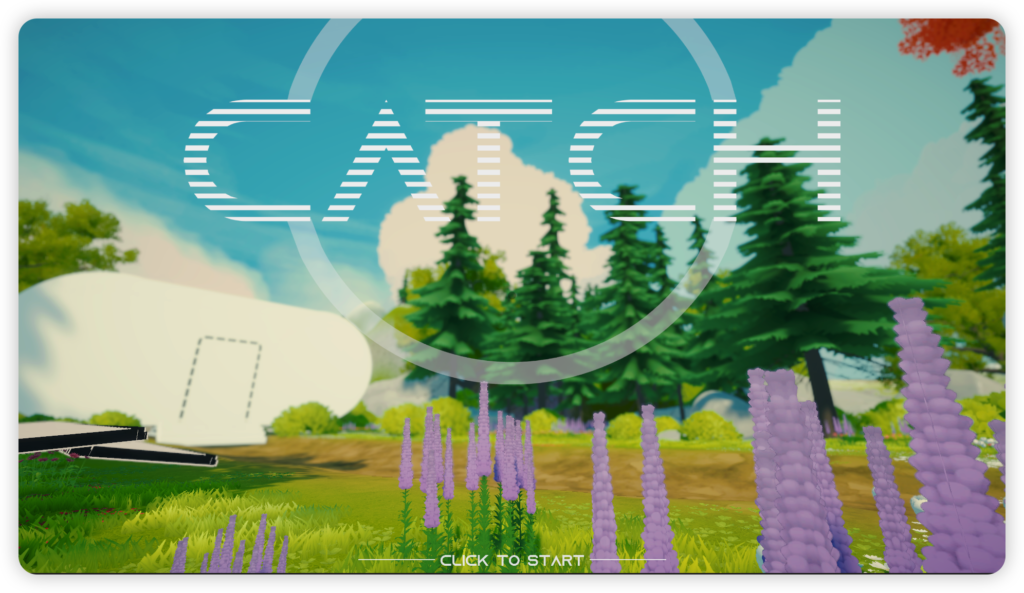
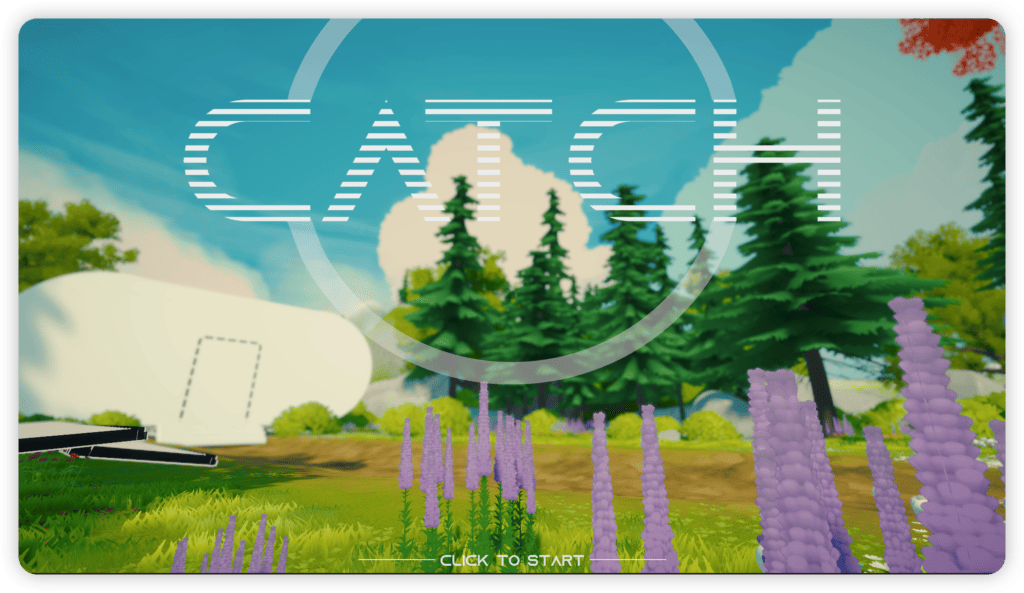
chore: site maintenance — meta fix, lang cleanup, image compression, robots polish
- Remove unescaped manual meta description tag from default layout (was causing broken
  double description on pages with quotes in description, e.g. Zh Project Catch)
- Add explicit lang: en to 3 English collection files (finite-space, project-catch, mortise-mirage)
- Compress 6 largest PNG images (pngquant q=70-85): total 5.5MB -> 1.4MB (-75%)
- Add clarifying comment to robots.txt about intentional Disallow
- Install dev dependencies: ImageMagick, pngquant, jpegoptim, PyYAML

diff --git a/_layouts/default.html b/_layouts/default.html
@@ -7,8 +7,6 @@ layout: default
   <meta charset="utf-8">
   <meta name="viewport" content="width=device-width, initial-scale=1">
   <title>{% if page.title %}{{ page.title }} | {% endif %}{{ site.title }}</title>
-  <meta name="description" content="{{ page.description | default: site.description }}">
-  
   <link rel="icon" type="image/jpeg" href="{{ '/assets/images/avatar.jpg' | relative_url }}">
   <link rel="preconnect" href="https://fonts.googleapis.com">
   <link rel="preconnect" href="https://fonts.gstatic.com" crossorigin>

diff --git a/_games/finite-space.md b/_games/finite-space.md
@@ -5,6 +5,7 @@ category: Games
 date: 2024-01-02
 description: "A space survival action game about resource collection, building construction, and constrained decision-making"
 thumbnail: /assets/images/projects/finite-space-1.png
+lang: en
 tags: [Action, WebGL, Unity, Prototype]
 links:
   - title: "Watch Gameplay"

diff --git a/_xr/mortise-mirage.md b/_xr/mortise-mirage.md
@@ -5,6 +5,7 @@ category: XR
 date: 2024-03-06
 description: "A VR immersive puzzle game centered on traditional mortise and tenon woodwork structures"
 thumbnail: /assets/images/xr/mortise-mirage-cover.png
+lang: en
 tags: [VR, Puzzle, Meta Quest, Cultural]
 links:
   - title: "Watch Gameplay"

diff --git a/_games/project-catch.md b/_games/project-catch.md
@@ -5,6 +5,7 @@ category: Games
 date: 2022-08-07
 description: "A collaborative puzzle game featuring photo-taking and projection mechanics"
 thumbnail: /assets/images/projects/project-catch-cover.png
+lang: en
 tags: [Puzzle, Unity, VR]
 links:
   - title: "Watch Gameplay"
